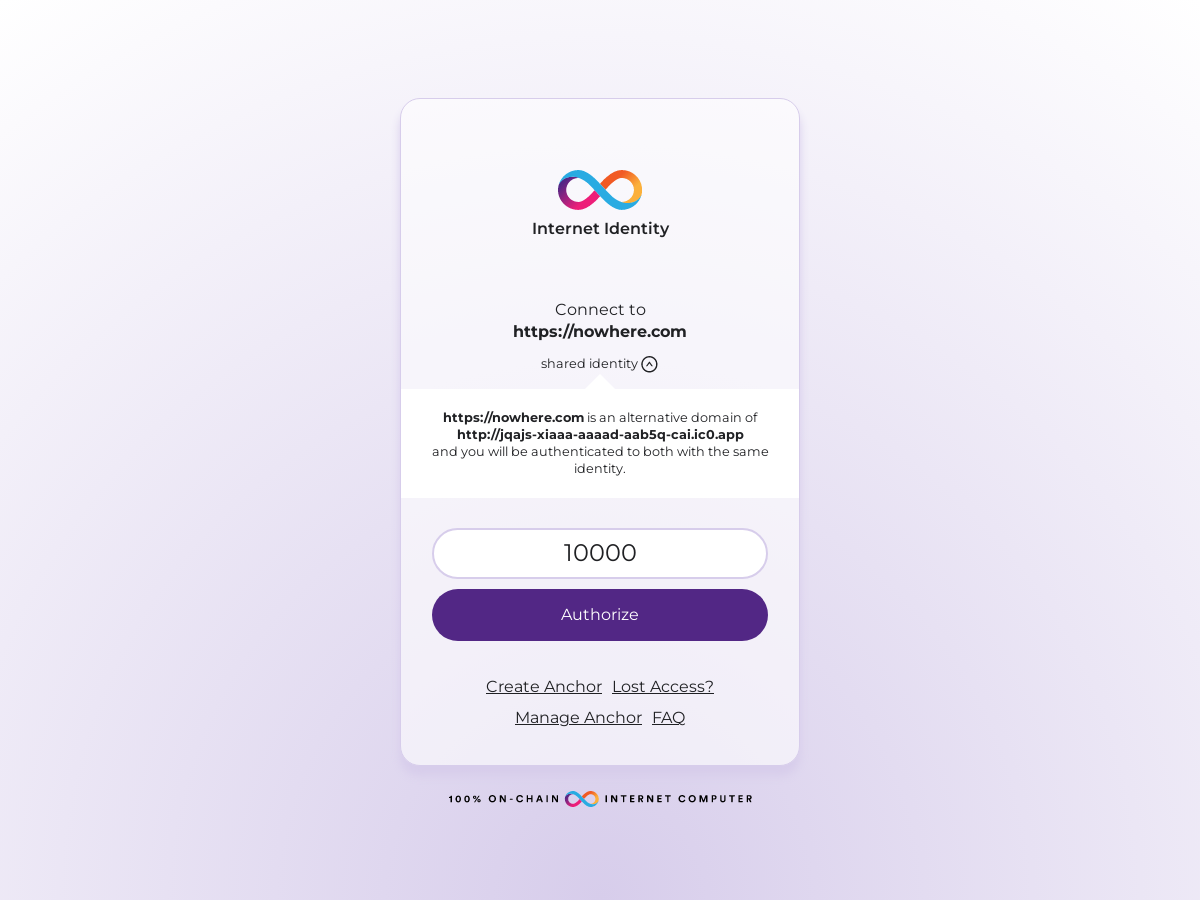
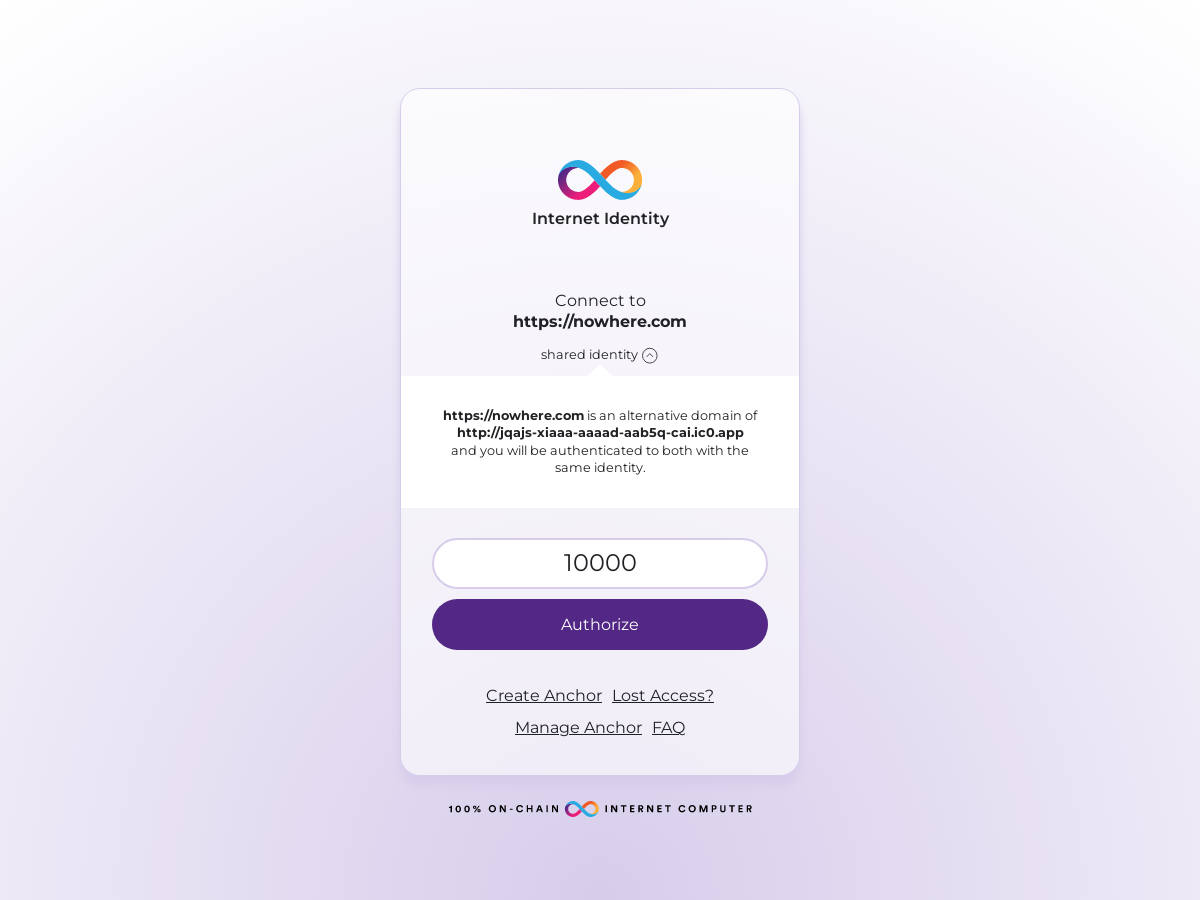
Makes the chasm fit the design system (#948)
* clean up the carret icon a bit

* 🤖 Selenium screenshots auto-update

* put the chasm into the design system

* put the chasm into the design system

* 🤖 Selenium screenshots auto-update

diff --git a/src/frontend/src/styles/main.css b/src/frontend/src/styles/main.css
@@ -1001,8 +1001,8 @@ a:hover,
 /* chasm: alternative to tooltips, where the card opens to reveal details */
 
 .c-chasm {
-  margin-left: calc(-1 * 31.25px);
-  margin-right: calc(-1 * 31.25px);
+  margin-left: calc(-1.25 * var(--rs-card-bezel));
+  margin-right: calc(-1.25 * var(--rs-card-bezel));
 }
 
 .c-chasm--closed {
@@ -1012,28 +1012,29 @@ a:hover,
 }
 
 .c-chasm--open {
-  max-height: 500px;
+  max-height: calc(5em * var(--vs-line-height) + var(--rs-card-bezel) * 2);
   visibility: visible;
-  transition: max-height 0.15s ease-in;
+  transition: max-height 400ms cubic-bezier(0.3, 0.7, 0, 1);
 }
 
 .c-chasm__content {
-  background-color: white;
-  padding: 2rem;
+  background-color: var(--rc-input);
+  padding: calc(1.25 * var(--rs-card-bezel));
 }
 
 .c-chasm__arrow {
   margin: auto;
   width: 0;
   height: 0;
-  border-left: 15px solid transparent;
-  border-right: 15px solid transparent;
-  border-bottom: 15px solid white;
-  z-index: 10;
+  background: var(--rc-input);
+  width: 2.5rem;
+  height: 1.2rem;
+  /* triangle path */
+  clip-path: polygon(50% 0, 0 100%, 100% 100%);
 }
 
 .c-chasm__button {
-  transition: transform 0.15s linear;
+  transition: transform 300ms cubic-bezier(0.3, 0.7, 0, 1);
 }
 .c-chasm__button svg {
   transform: translate(-50%, -50%);

diff --git a/src/frontend/src/components/icons.ts b/src/frontend/src/components/icons.ts
@@ -259,19 +259,15 @@ export const copyIcon = html`
 
 export const caretDownIcon = html`
   <svg
-    width="22"
-    height="22"
-    viewBox="0 0 22 22"
+    width="20"
+    height="20"
+    viewBox="0 0 21 21"
     fill="none"
     xmlns="http://www.w3.org/2000/svg"
   >
-    <path
-      d="M15.171 8.49231H14.0718C13.8327 8.49231 13.6054 8.60715 13.4647 8.80168L10.9991 12.2095L8.53346 8.80168C8.39283 8.60715 8.16783 8.49231 7.92642 8.49231H6.8272C6.67486 8.49231 6.58579 8.66575 6.67486 8.78997L10.8467 14.5556C10.9217 14.6587 11.0741 14.6587 11.1491 14.5556L15.321 8.78997C15.4124 8.66575 15.3233 8.49231 15.171 8.49231Z"
-      fill="currentColor"
-    />
-    <path
-      d="M11 0.500122C5.20156 0.500122 0.5 5.20168 0.5 11.0001C0.5 16.7986 5.20156 21.5001 11 21.5001C16.7984 21.5001 21.5 16.7986 21.5 11.0001C21.5 5.20168 16.7984 0.500122 11 0.500122ZM11 19.7189C6.18594 19.7189 2.28125 15.8142 2.28125 11.0001C2.28125 6.18606 6.18594 2.28137 11 2.28137C15.8141 2.28137 19.7188 6.18606 19.7188 11.0001C19.7188 15.8142 15.8141 19.7189 11 19.7189Z"
-      fill="currentColor"
-    />
+    <g fill="none" stroke="currentColor" stroke-width="1">
+      <circle cx="10" cy="10" r="9" />
+      <path d="M6 8.5 L10 12.5 L14 8.5" />
+    </g>
   </svg>
 `;
